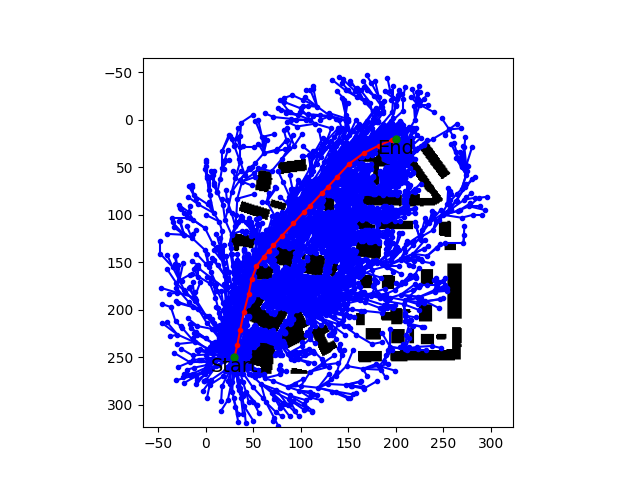
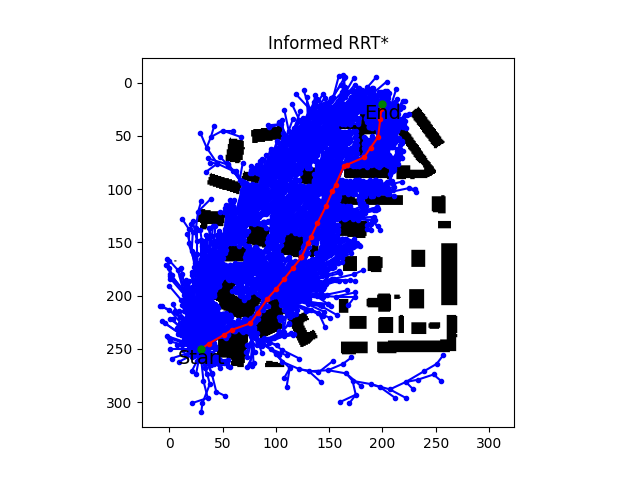
Updated

diff --git a/informed_RRTstar.py b/informed_RRTstar.py
@@ -204,6 +204,9 @@ class Informed_RRTSTAR:
         plt.plot(self.goal.col, self.goal.row, markersize=5, marker='o', color='green')
         plt.text(self.goal.col, self.goal.row, 'End', color='black', fontsize=14, va='top', ha='center')
 
+        # Add title to the plot
+        plt.title(title)
+
         # Show image
         plt.show()
 
